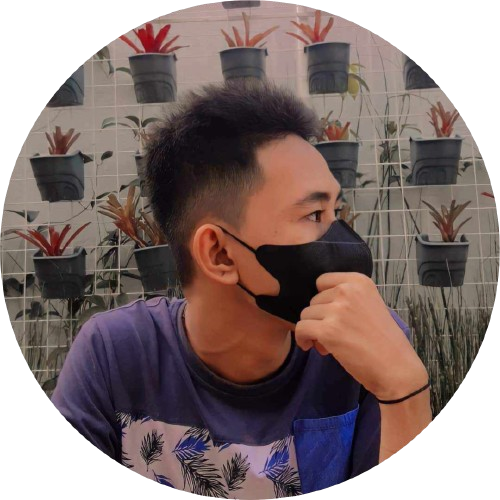
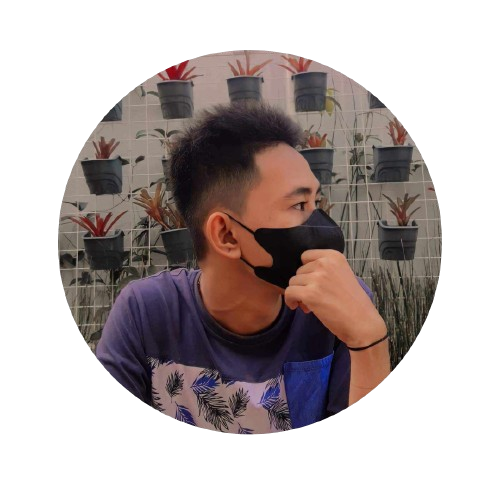
second commit

diff --git a/index.html b/index.html
@@ -2,7 +2,7 @@
 <html lang="en">
 <head>
     <meta charset="UTF-8">
-    <meta name="viewport" content="width=device-width, initial-scale=1.0">
+    <meta name="viewport" content="width= device-width, initial-scale=1.0">
     <title>My Portfolio</title>
     <link rel="stylesheet" href="style.css">
     <link rel="stylesheet" href="mediaquery.css">
@@ -54,9 +54,112 @@
             <div id="social-container">
                 <img src="./assets/linkedin.png" alt="linkedin profile" class="icon" onclick="location.href='https://www.linkedin.com/in/vincent-jovan-parra-7b9960314/' ">
                 <img src="./assets/github.png" alt="github profile" class="icon" onclick="location.href='https://github.com/pVincent911' ">
+                <img src="./assets/facebook.png" alt="Facebook profile" class="icon" onclick="location.href='https://web.facebook.com/pvincentjovan/' ">
                 
             </div>
         </div>
+    </section>
+    <section id="about">
+        <p class="section__text__p1">Get to know more</p>
+        <h1 class="title">About Me</h1>
+        <div class="section-container">
+            <div class="section__pic-container">
+                <img src="./assets/about-pic.png" alt="Profile picture" class="about-pic">
+            </div>
+            <div class="about-details-container">
+                <div class="about-containers">
+                    <div class="details-container">
+                        <img src="./assets/experience.png" alt="Experience icon" class="icon">
+                        <h3>Experience</h3>
+                        <p>1st year and 2nd year<br>Most Promising Object Oriented Programmer <br>Most Promising Database Designer <br> Most Promising Hardware Engineer Designer</p>
+                    </div>
+                    <div class="details-container">
+                        <img src="./assets/education.png" alt="Education icon" class="icon">
+                        <h3>Education</h3>
+                        <p>3rd year <br>Student <br> Bacherlor of Science in Information Technology </p>
+                    </div>
+                </div>
+                <div class="text-container">
+                    <p>Hello! I am Vincent Jovan Parra, currently a third-year IT student with a passion for innovation and problem-solving. Throughout my academic journey, I have been recognized for my dedication and achievements in various fields of IT.</p>
+                </div>
+            </div>
+        </div>
+        <img src="./assets/arrow.png" alt="arrow icon" class="icon arrow" onclick="location.href='./#experience' ">
+    </section>
+    <section id="experience">
+        <p class="section__text__p1">Explore My</p>
+        <h1 class="title">Experience</h1>
+        <div class="experience-details-container">
+            <div class="about-containers">
+                <div class="details-container">
+                    <h2 class="experience-sub-title">Front-end Development</h2>
+                    <div class="article-container">
+                        <article>
+                            <img src="./assets/checkmark.png" alt="experience icon" class="icon">
+                            <div>
+                                <h3>JavaFx</h3>
+                                <p>Intermediate</p>
+                            </div>
+                        </article>
+                        <article>
+                            <img src="./assets/checkmark.png" alt="experience icon" class="icon">
+                            <div>
+                                <h3>CSS</h3>
+                                <p>Basic</p>
+                            </div>
+                        </article>
+                        <article>
+                            <img src="./assets/checkmark.png" alt="experience icon" class="icon">
+                            <div>
+                                <h3>HTML</h3>
+                                <p>Basic</p>
+                            </div>
+                        </article>
+                        <article>
+                            <img src="./assets/checkmark.png" alt="experience icon" class="icon">
+                            <div>
+                                <h3>JavaScript</h3>
+                                <p>Basic</p>
+                            </div>
+                        </article>
+                    </div>
+                </div>
+                <div class="details-container">
+                    <h2 class="experience-sub-title">Back-end Development</h2>
+                    <div class="article-container">
+                        <article>
+                            <img src="./assets/checkmark.png" alt="experience icon" class="icon">
+                            <div>
+                                <h3>Java</h3>
+                                <p>Advance</p>
+                            </div>
+                        </article>
+                        <article>
+                            <img src="./assets/checkmark.png" alt="experience icon" class="icon">
+                            <div>
+                                <h3>Oracle Sql</h3>
+                                <p>Intermediate</p>
+                            </div>
+                        </article>
+                        <article>
+                            <img src="./assets/checkmark.png" alt="experience icon" class="icon">
+                            <div>
+                                <h3>.NET</h3>
+                                <p>Basic</p>
+                            </div>
+                        </article>
+                        <article>
+                            <img src="./assets/checkmark.png" alt="experience icon" class="icon">
+                            <div>
+                                <h3>Spring Boot</h3>
+                                <p>Basic</p>
+                            </div>
+                        </article>
+                    </div>
+                </div>
+            </div>
+        </div>
+        <img src="./assets/arrow.png" alt="arrow icon" class="icon arrow" onclick="location.href='./#projects' ">
     </section>
     <script src="script.js"></script>
 </body>

diff --git a/style.css b/style.css
@@ -128,3 +128,172 @@ a:hover{
 }
 /* section */
 
+section{
+    padding-top: 4vh;
+    height: 96 vh;
+    margin: 0,10rem;
+    box-sizing: border-box;
+    min-height: fit-content;
+}
+.section-container{
+    display: flex;
+}
+/* Profile section */
+
+#profile{
+    display: flex;
+    justify-content: center;
+    gap: 5rem;
+    height: 80vh;
+}
+.section__pic-container{
+    display: flex;
+    height: 400px;
+    width: 400px;
+    margin: auto 0;
+}
+.section__text{
+    align-self: center;
+    text-align: center;
+}
+.section__text p{
+    font-weight: 600;
+}
+.section__text__p1{
+    text-align: center;
+}
+.section__text__p2{
+    font-size: 1.75rem;
+    margin-bottom: 1rem;
+}
+.title{
+    font-size: 3rem;
+    text-align: center;
+}
+#social-container{
+    display: flex;
+    justify-content: center;
+    margin-top: 1rem;
+    gap: 1rem;
+}
+
+/* Icons */
+
+.icon{
+    cursor: pointer;
+    height: 2rem;
+}
+
+/* buttons */
+
+.btn-container{
+    display: flex;
+    justify-content: center;
+    gap: 1rem;
+}
+
+.btn{
+    font-weight: 600;
+    transition: all 300ms ease;
+    padding: 1rem;
+    width: 8rem;
+    border-radius: 2rem;
+}
+.btn-color-1, .btn-color-2{
+    border: rgb(53, 53, 53) 0.1rem solid;
+}
+.btn-color-1:hover, .btn-color-2:hover{
+    cursor: pointer;
+}
+.btn-color-1, .btn-color-2:hover{
+    background: rgb(53, 53, 53);
+    color: white;
+}
+.btn-color-1:hover{
+    background: rgb(0 , 0, 0);
+    color: white;
+}
+.btn-color-2{
+    background:none;
+}
+.btn-color-2:hover{
+    border: rgb(255, 255, 255)0.1rem solid;
+}
+.btn-container{
+    gap: 1rem;
+}
+
+/* aboubt section */
+#about{
+    position: relative;
+}
+.about-containers{
+    gap: 2rem;
+    margin-bottom: 2rem;
+    margin-top: 2rem;
+}
+.about-details-container{
+    justify-content: center;
+    flex-direction: column;
+}
+.about-containers, .about-details-container{
+    display: flex;
+}
+.about-pic{
+    border-radius: 2rem;
+}
+.arrow{
+    position: absolute;
+    right: -5rem;
+    bottom: 2.5rem;
+}
+.details-container{
+    padding: 1.5rem;
+    flex: 1;
+    background: white;
+    border-radius: 2rem;
+    border: rgb(53, 53, 53)0.1rem solid;
+    border-color: rgb(163, 163, 163);
+    text-align: center;
+}
+.section-container{
+    gap: 4rem;
+    height: 80%;
+}
+.section__pic-container{
+    height: 400px;
+    width: 400px;
+    margin: auto 0;
+}
+/* experience section */
+#experience{
+    position: relative;
+}
+.experience-sub-title{
+    color: rgb(85, 85, 85);
+    font-weight: 600;
+    font-size: 1.75rem;
+    margin-bottom: 2rem;
+}
+.experience-details-container{
+    display: flex;
+    justify-content: center;
+    flex-direction: column;
+}
+.article-container{
+    display: flex;
+    text-align: initial;
+    flex-wrap: wrap;
+    flex-direction: row;
+    gap: 2.5rem;
+    justify-content: space-around;
+}
+.article{
+    display: flex;
+    width: 10rem;
+    justify-content: space-around;
+    gap: 0.5rem;
+}
+article .icon{
+    cursor: default;
+}

diff --git a/mediaquery.css b/mediaquery.css
@@ -1,4 +1,4 @@
-@media screen and (max-width:1080px){
+@media screen and (max-width:1098px){
     #desktop-nav{
         display: none;
     }
